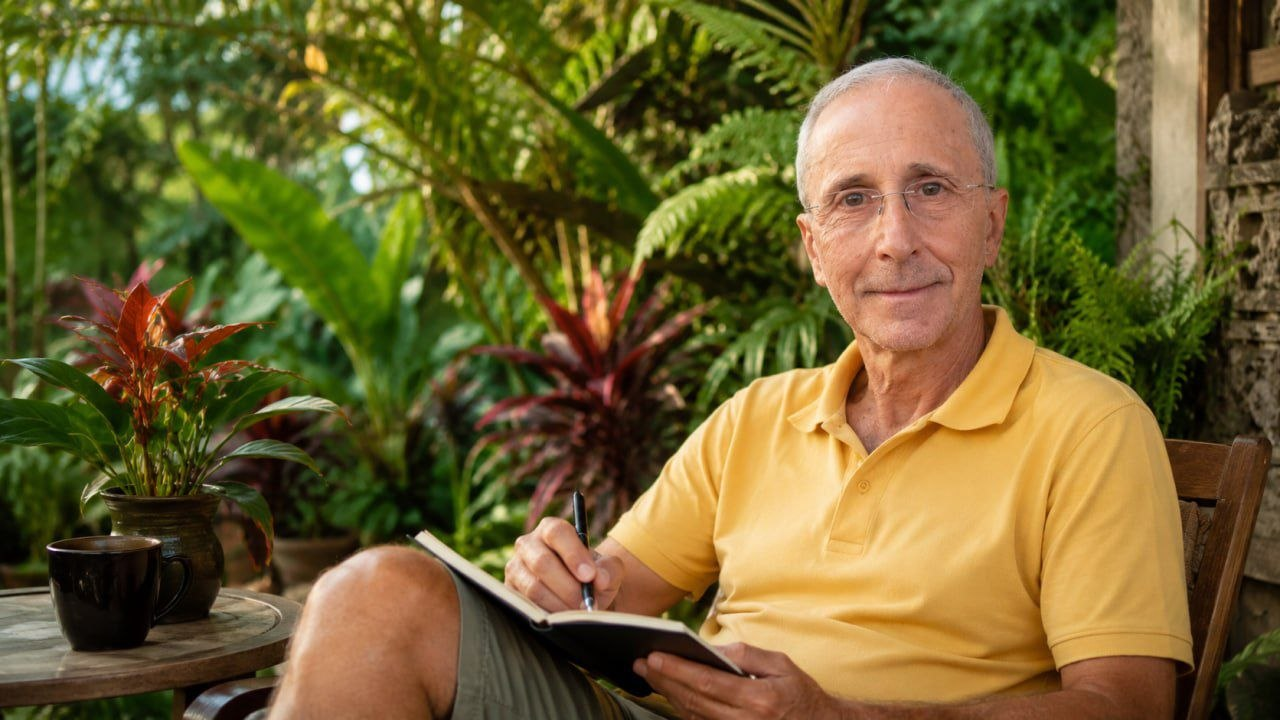
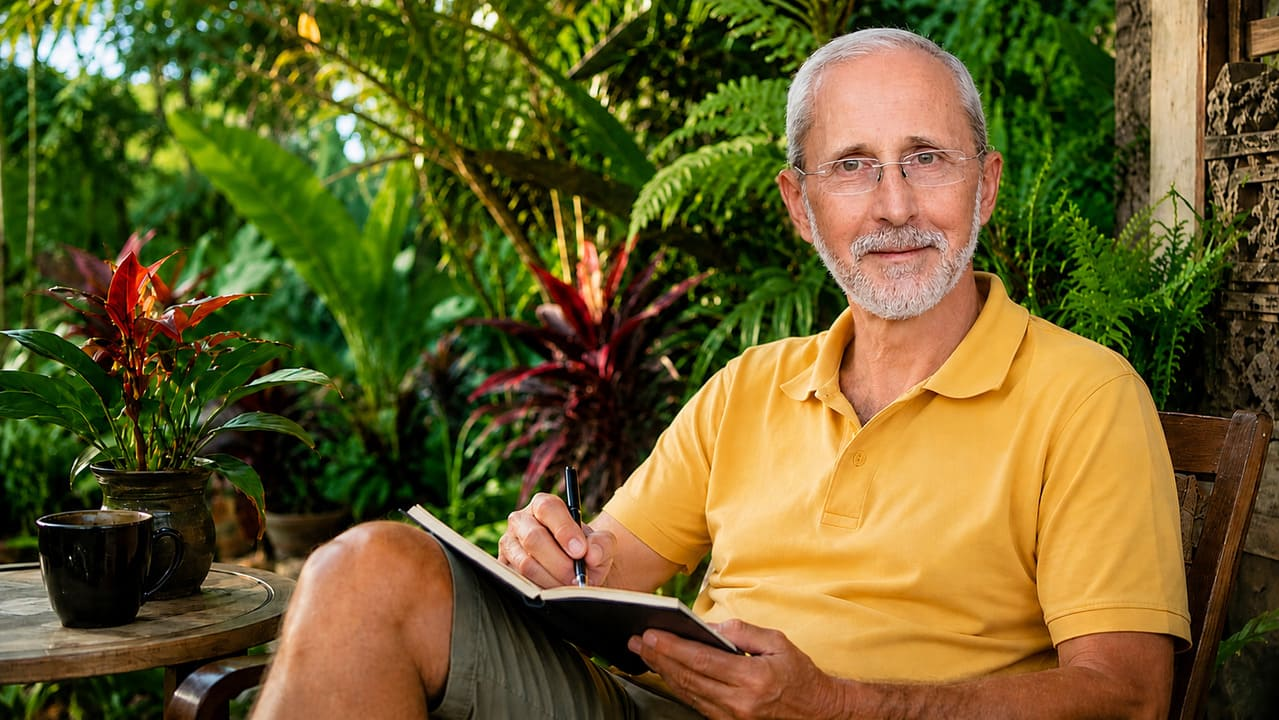
Add files via upload

diff --git a/index.html b/index.html
@@ -3,7 +3,7 @@
 <head>
 <meta charset="UTF-8">
 <meta name="viewport" content="width=device-width, initial-scale=1.0, maximum-scale=1.0">
-<title>Бизнес в кармане — Андрей | Happy People Network</title>
+<title>Бизнес в кармане — Андрей Мудрый | Happy People Network</title>
 <style>
 :root {
   --gold: #C9A84C;
@@ -254,7 +254,23 @@ footer {
 }
 footer a { color: var(--gold); text-decoration: none; }
 </style>
-<link rel="icon" type="image/png" href="https://andreiwise.github.io/lp/icon.png">
+<link rel="icon" type="image/png" href="https://andreywise.pages.dev/icon.png">
+<meta property="og:title" content="Бизнес в кармане: зарабатывай в долларах из любой точки мира">
+<meta property="og:description" content="Пошаговая инструкция от Андрея Мудрого — предпринимателя, объехавшего 50 стран. Без офиса, склада и списка знакомых.">
+<meta property="og:image" content="https://andreywise.pages.dev/andrey.jpg">
+<meta property="og:url" content="https://andreywise.pages.dev">
+<meta property="og:type" content="website">
+<meta name="twitter:card" content="summary_large_image">
+<meta name="twitter:title" content="Бизнес в кармане: зарабатывай в долларах из любой точки мира">
+<meta name="twitter:description" content="Пошаговая инструкция от Андрея Мудрого — предпринимателя, объехавшего 50 стран. Без офиса, склада и списка знакомых.">
+<meta name="twitter:image" content="https://andreywise.pages.dev/andrey.jpg">
+<script async src="https://www.googletagmanager.com/gtag/js?id=G-EK0082FK7R"></script>
+<script>
+  window.dataLayer = window.dataLayer || [];
+  function gtag(){dataLayer.push(arguments);}
+  gtag('js', new Date());
+  gtag('config', 'G-EK0082FK7R');
+</script>
 </head>
 <body>
 
@@ -263,7 +279,7 @@ footer a { color: var(--gold); text-decoration: none; }
   <div class="hero-bg"></div>
 
   <div class="photo-wrap">
-    <img src="https://andreiwise.github.io/lp/andrey.jpg"
+    <img src="https://andreywise.pages.dev/andrey.jpg"
          onerror="this.parentElement.style.display='none'"
          alt="Андрей — Happy People Network">
     <div class="photo-badge">
@@ -271,7 +287,7 @@ footer a { color: var(--gold); text-decoration: none; }
       <div class="lbl">стран</div>
     </div>
     <div class="photo-name">
-      <div class="name">Андрей</div>
+      <div class="name">Андрей Мудрый</div>
       <div class="sub">Happy People Network · Бали</div>
     </div>
   </div>
@@ -288,7 +304,7 @@ footer a { color: var(--gold); text-decoration: none; }
     Пошаговая инструкция от Андрея — предпринимателя, объехавшего <strong>50 стран</strong>, живущего на Бали и построившего систему, которая работает <strong>без офиса, склада и списка знакомых</strong>.
   </p>
 
-  <button class="btn-main" onclick="window.open('https://t.me/andrey_mudrybot?start=lp','_blank')">
+  <button class="btn-main">
     Получить инструкцию бесплатно →
   </button>
   <p class="hero-note">🔒 Без спама. Только полезный контент.</p>
@@ -390,7 +406,7 @@ footer a { color: var(--gold); text-decoration: none; }
     <div class="get-item">
       <div class="get-check">✓</div>
       <div class="get-text">
-        <h4>Краткую схему системы — 4 шага</h4>
+        <h4>Краткая схема системы — 4 шага</h4>
         <p>Как устроен бизнес который работает без тебя 24/7</p>
       </div>
     </div>
@@ -425,7 +441,7 @@ footer a { color: var(--gold); text-decoration: none; }
     «В 30 лет я начал строить бизнес через интернет. Через несколько лет — первый стабильный доход. Но система плохо масштабировалась — люди не умели повторить то, что делал я.<br><br>
     Сегодня <strong>всё автоматизировано</strong>. Твоя задача — только общение с теми, кто сам хочет поговорить.»
   </p>
-  <div class="story-author">— Андрей, основатель Happy People Network · Бали</div>
+  <div class="story-author">— Андрей Мудрый, основатель Happy People Network · Бали</div>
 </section>
 
 <!-- FINAL CTA -->
@@ -433,7 +449,7 @@ footer a { color: var(--gold); text-decoration: none; }
   <span class="tag" style="display:block;text-align:center;">Старт бесплатно</span>
   <h2 class="h2" style="text-align:center;">Получи инструкцию<br>прямо сейчас</h2>
   <p class="sub" style="text-align:center;">Нажми кнопку — и через 30 секунд у тебя будет пошаговый план.</p>
-  <button class="btn-main" onclick="window.open('https://t.me/andrey_mudrybot?start=lp','_blank')">
+  <button class="btn-main">
     Получить инструкцию бесплатно →
   </button>
   <p class="hero-note" style="margin-top:14px;">🔒 Без регистрации. Переходишь в чат — получаешь материал.</p>
@@ -441,10 +457,21 @@ footer a { color: var(--gold); text-decoration: none; }
 
 <!-- FOOTER -->
 <footer>
-  <p>© 2025 Андрей · Happy People Network</p>
+  <p>© 2025 Андрей Мудрый · Happy People Network</p>
   <p>Сайт носит информационный характер. Результаты индивидуальны.</p>
   <p><a href="privacy.html">Политика конфиденциальности</a></p>
 </footer>
+
+<script>
+  // Читаем метку из URL страницы (например ?fb_ins)
+  var param = window.location.search.replace('?', '') || 'lp_ins';
+  var botUrl = 'https://t.me/andrey_mudrybot?start=' + param;
+
+  // Вешаем на все кнопки
+  document.querySelectorAll('.btn-main').forEach(function(btn) {
+    btn.onclick = function() { window.open(botUrl, '_blank'); };
+  });
+</script>
 
 </body>
 </html>

diff --git a/privacy.html b/privacy.html
@@ -159,7 +159,7 @@
   <p>Настоящая Политика конфиденциальности описывает, какие данные собираются при посещении сайта <strong>andreiwise.github.io/lp</strong>, как они используются и какие права есть у пользователя.</p>
 
   <div class="highlight-box">
-    Этот сайт не собирает персональные данные автоматически и не использует сторонние трекеры или аналитику. Единственное действие, при котором вы передаёте данные — это переход в Telegram по вашей инициативе.
+    Этот сайт использует Google Analytics для анализа трафика. Google Analytics собирает обезличенные данные о посещениях через файлы cookie. Личные данные при этом не передаются. Единственное действие, при котором вы передаёте личные данные — это переход в Telegram по вашей инициативе.
   </div>
 
   <h2>1. Какие данные собираются</h2>
@@ -186,6 +186,11 @@
       <td>Только если вы нажали кнопку и перешли в чат-бот</td>
     </tr>
     <tr>
+      <td>Данные аналитики</td>
+      <td>Страницы, время визита, источник перехода, страна, устройство</td>
+      <td>Google Analytics (обезличенно, через cookie)</td>
+    </tr>
+    <tr>
       <td>Персональные данные</td>
       <td>Не собираются</td>
       <td>На сайте нет форм, регистрации или ввода данных</td>
@@ -201,10 +206,11 @@
   </ul>
 
   <h2>3. Файлы cookie</h2>
-  <p>Сайт <strong>не использует</strong> файлы cookie, пиксели отслеживания, счётчики или рекламные скрипты. Никакие данные не сохраняются в браузере пользователя.</p>
+  <p>Сайт использует Google Analytics — сервис веб-аналитики от Google Inc. Google Analytics собирает обезличенные данные о поведении пользователей на сайте (страницы, время визита, источник перехода) через файлы cookie.</p>
+  <p>Вы можете отказаться от отслеживания Google Analytics установив <a href="https://tools.google.com/dlpage/gaoptout" target="_blank" style="color:#C9A84C;">расширение для браузера</a>. Политика конфиденциальности Google: <a href="https://policies.google.com/privacy" target="_blank" style="color:#C9A84C;">policies.google.com/privacy</a></p>
 
   <h2>4. Хостинг и инфраструктура</h2>
-  <p>Сайт размещён на <strong>GitHub Pages</strong> (GitHub, Inc., США). GitHub может собирать технические данные в соответствии со своей политикой конфиденциальности: <a href="https://docs.github.com/ru/site-policy/privacy-policies/github-general-privacy-statement" target="_blank" style="color: #C9A84C;">docs.github.com</a></p>
+  <p>Сайт размещён на <strong>Cloudflare Pages</strong> (Cloudflare, Inc., США). Cloudflare может собирать технические данные в соответствии со своей политикой конфиденциальности: <a href="https://www.cloudflare.com/privacypolicy/" target="_blank" style="color: #C9A84C;">cloudflare.com/privacypolicy</a></p>
 
   <p>Чат-бот работает через платформу <strong>Telegram</strong>. При переходе в бот применяется политика конфиденциальности Telegram: <a href="https://telegram.org/privacy" target="_blank" style="color: #C9A84C;">telegram.org/privacy</a></p>
 
@@ -218,7 +224,7 @@
   </ul>
 
   <h2>6. Хранение данных</h2>
-  <p>Переписка в Telegram хранится до момента вашего запроса об удалении или блокировки бота. Серверные логи GitHub Pages хранятся согласно политике GitHub (как правило, не более 30 дней).</p>
+  <p>Переписка в Telegram хранится до момента вашего запроса об удалении или блокировки бота. Данные Cloudflare Pages хранятся согласно политике Cloudflare (как правило, не более 30 дней).</p>
 
   <h2>7. Изменения политики</h2>
   <p>Мы оставляем за собой право обновлять данную политику. При существенных изменениях дата обновления в заголовке будет изменена. Продолжение использования сайта означает согласие с актуальной версией политики.</p>
